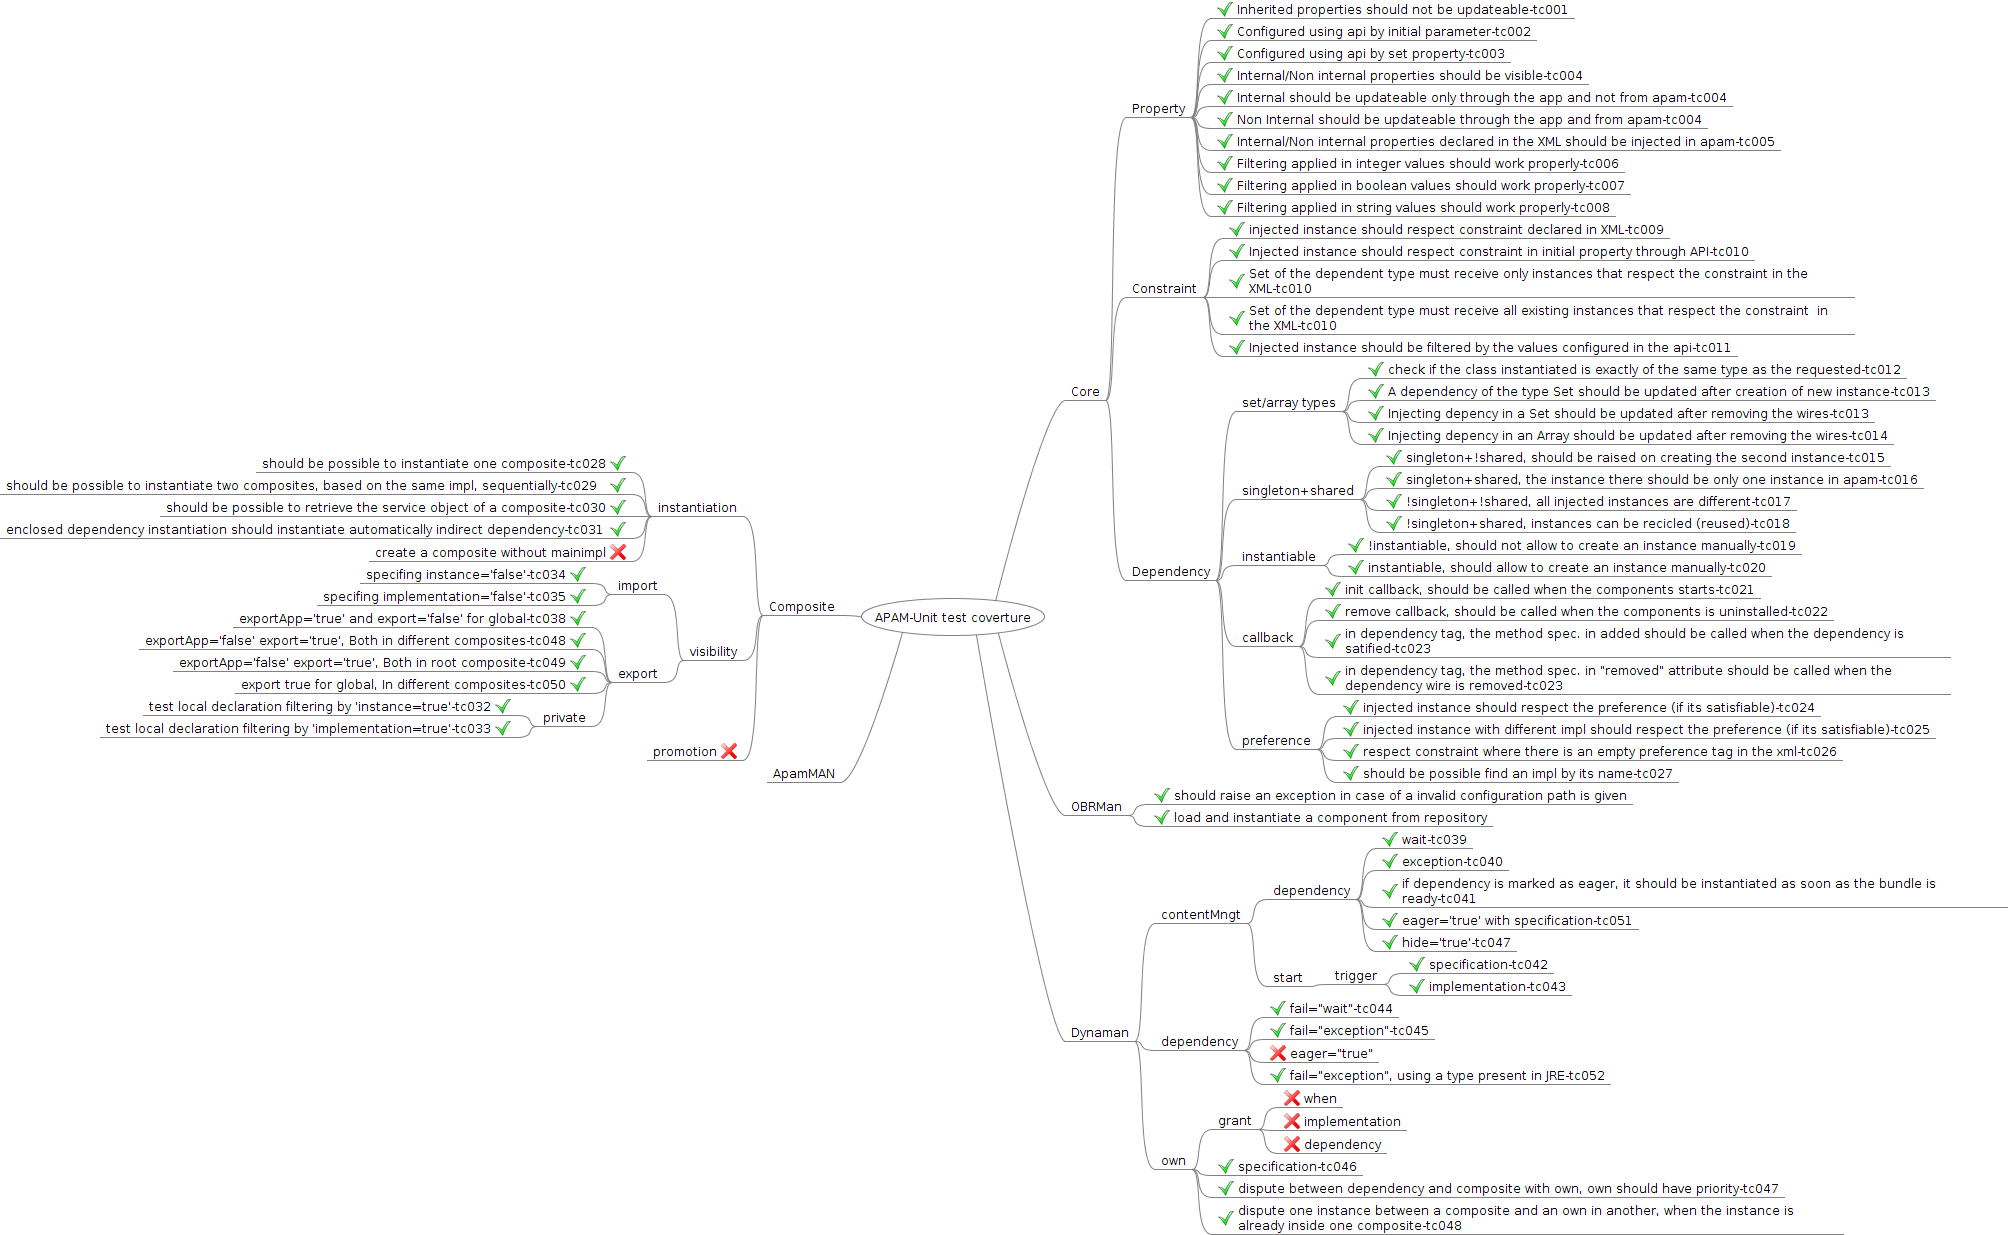
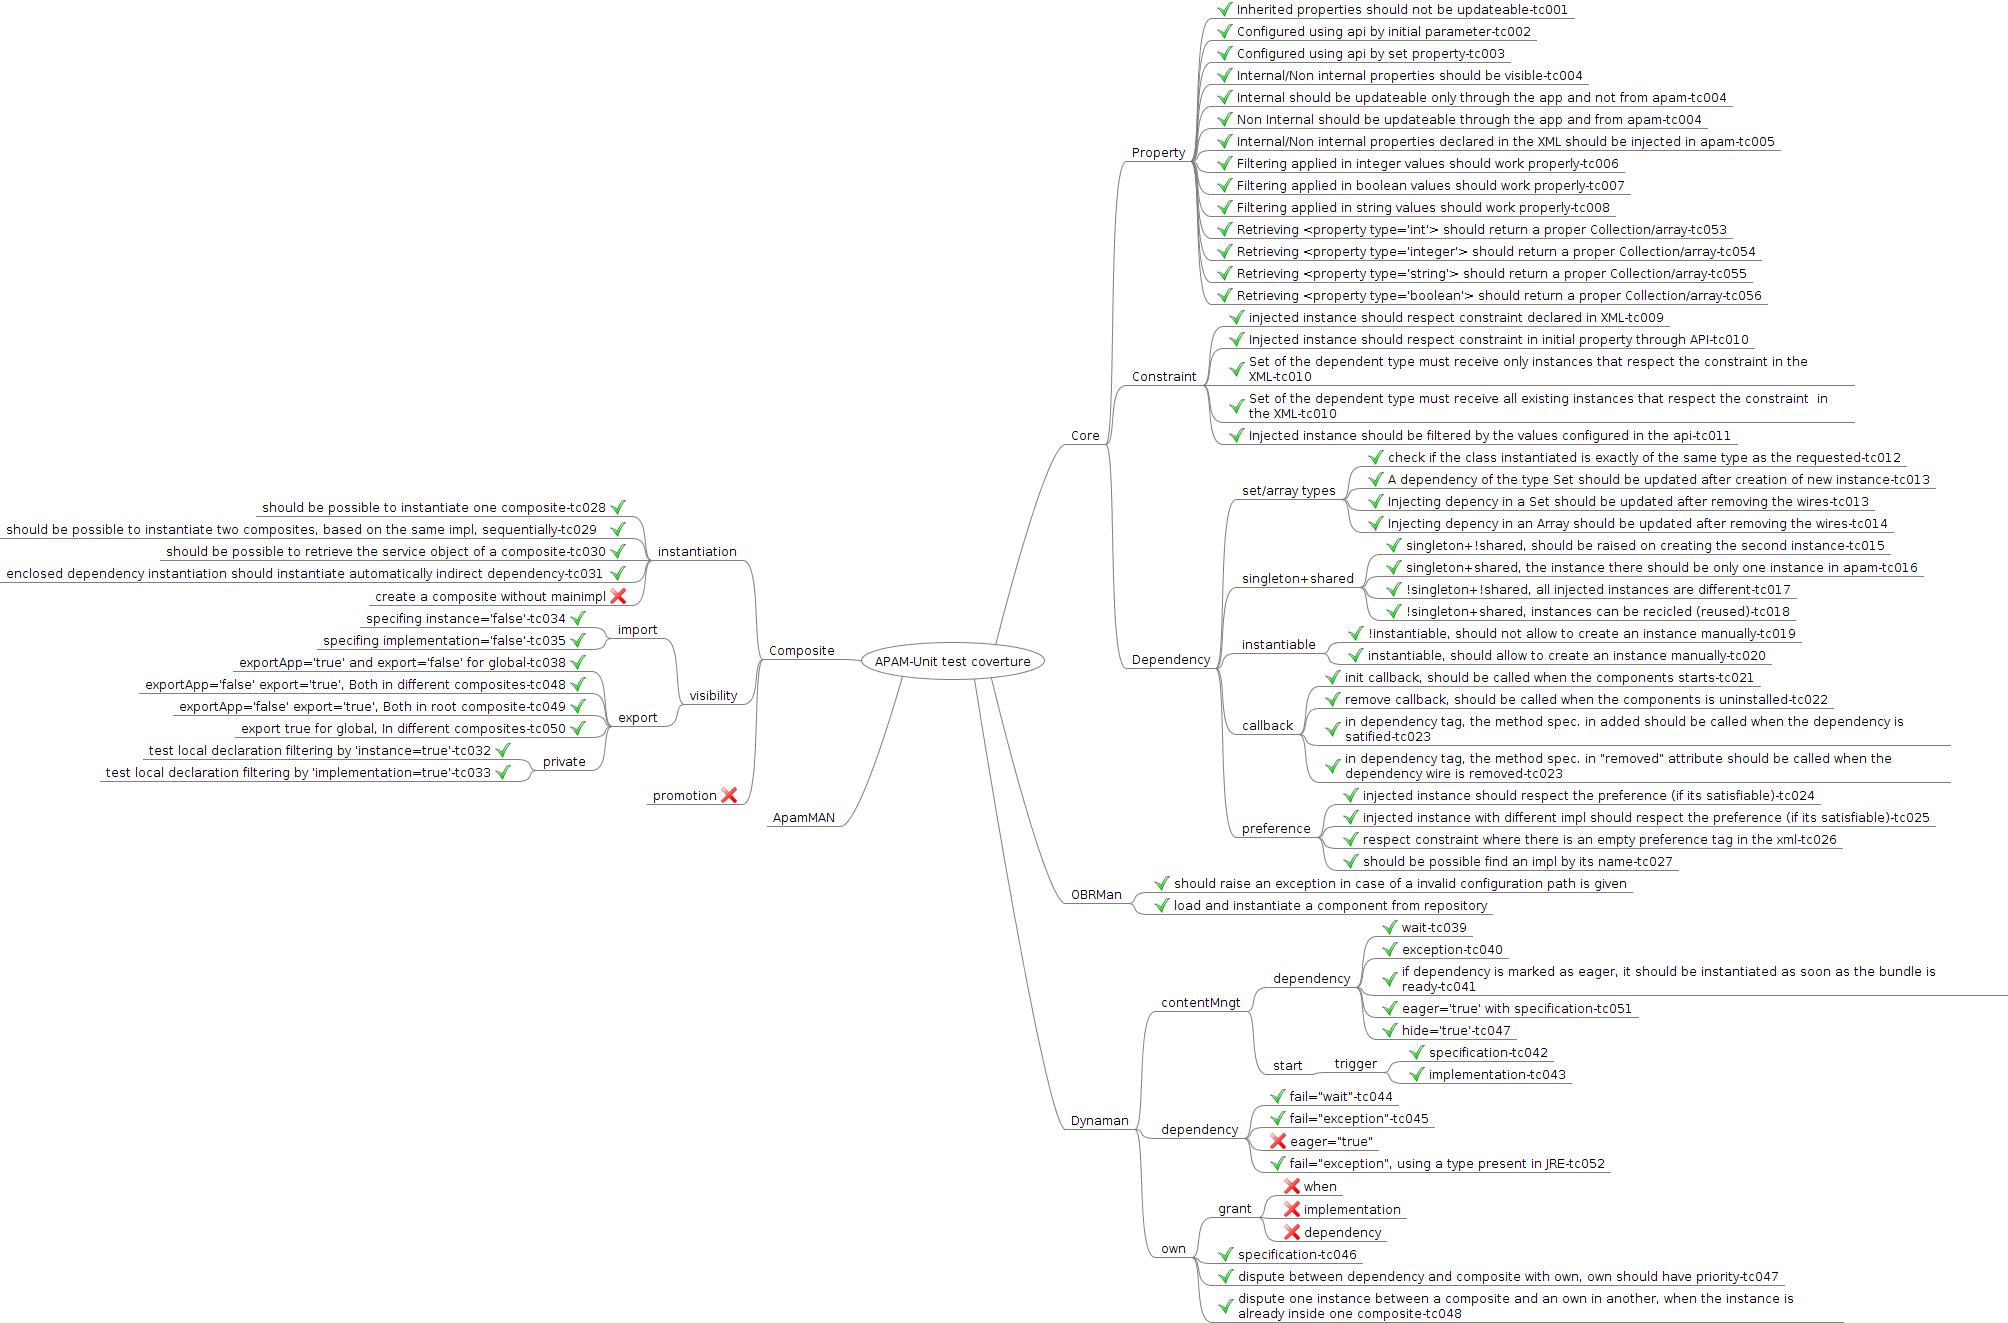
updating coverage test mindmap

diff --git a/documentations/technical/test-coverture/APAM-UnitTest-Coverture-OnFreeMindApp.mm b/documentations/technical/test-coverture/APAM-UnitTest-Coverture-OnFreeMindApp.mm
@@ -33,8 +33,17 @@
 <node CREATED="1353070377590" ID="ID_382562301" MODIFIED="1354294378716" TEXT="Filtering applied in string values should work properly-tc008">
 <icon BUILTIN="button_ok"/>
 </node>
-<node CREATED="1355931835542" ID="ID_1074078486" MODIFIED="1355931855588" TEXT="test set of int/string/boolean types">
-<icon BUILTIN="button_cancel"/>
+<node CREATED="1355931835542" ID="ID_1074078486" MODIFIED="1356013732686" TEXT="Retrieving &lt;property type=&apos;int&apos;&gt; should return a proper Collection/array-tc053">
+<icon BUILTIN="button_ok"/>
+</node>
+<node CREATED="1355931835542" ID="ID_949793962" MODIFIED="1356013735230" TEXT="Retrieving &lt;property type=&apos;integer&apos;&gt; should return a proper Collection/array-tc054">
+<icon BUILTIN="button_ok"/>
+</node>
+<node CREATED="1355931835542" ID="ID_450621789" MODIFIED="1356013737734" TEXT="Retrieving &lt;property type=&apos;string&apos;&gt; should return a proper Collection/array-tc055">
+<icon BUILTIN="button_ok"/>
+</node>
+<node CREATED="1355931835542" ID="ID_1598888249" MODIFIED="1356013740398" TEXT="Retrieving &lt;property type=&apos;boolean&apos;&gt; should return a proper Collection/array-tc056">
+<icon BUILTIN="button_ok"/>
 </node>
 </node>
 <node CREATED="1353066008853" ID="ID_82303023" MODIFIED="1353071077628" TEXT="Constraint">
